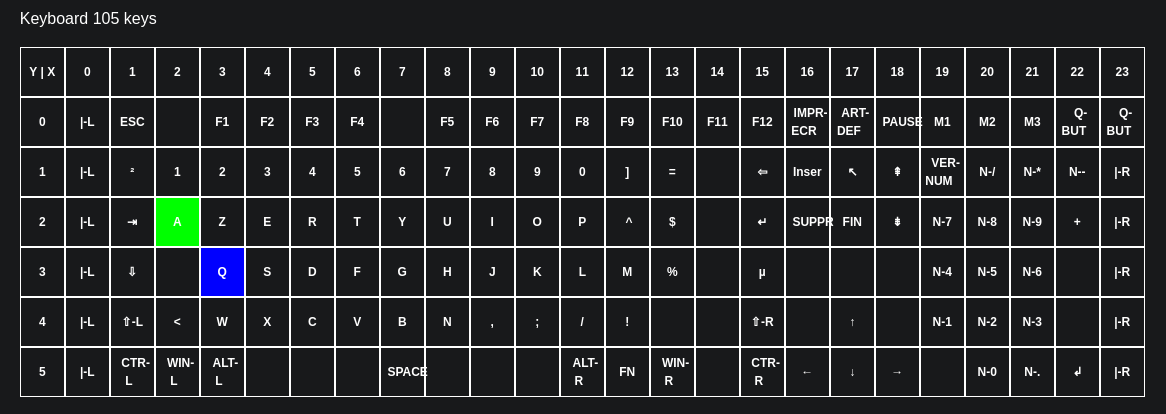
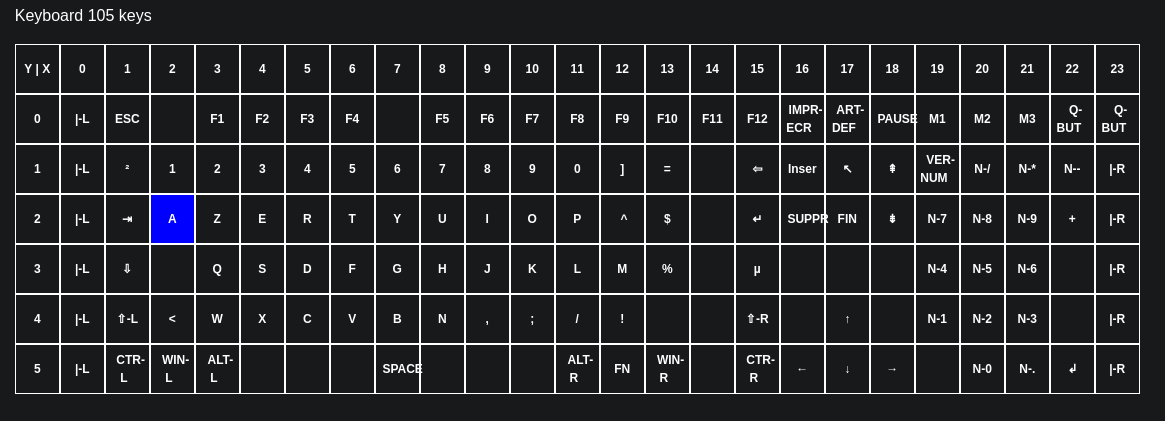
Update the q api doc.

Changed region(s): [[0.0, 0.087, 0.9888, 0.9565], [0.0, 0.0, 0.1545, 0.058]]

diff --git a/_site/q-api-doc/index.html b/_site/q-api-doc/index.html
@@ -16,7 +16,7 @@
   <link href="https://fonts.googleapis.com/icon?family=Material+Icons+Extended" rel="stylesheet">
   <link href="https://fonts.googleapis.com/css?family=Source+Code+Pro%7CRoboto:500,400italic,300,400" rel="stylesheet">
   
-  <link rel="canonical" href="http://localhost:4000/q-website/q-api-doc/">
+  <link rel="canonical" href="https://metadot.github.io/q-website/q-api-doc/">
   <script src="https://www.gstatic.com/firebasejs/4.11.0/firebase.js"></script>
   <script>
     // Initialize Firebase
@@ -130,7 +130,7 @@
          <a href="https://github.com/metadot/q-website/blob/master/q-api-doc.md" class="btn btn-sm">
             <i class="fa fa-pencil"></i> Edit Source
          </a>
-         <a href="https://github.com/DasKeyboard/q/issues/new?title=Issue from website page Das Keyboard Q REST API Documentation&body=From URL: http://localhost:4000/q-api-doc.md&labels=dev: docs - website" class="btn btn-sm">
+         <a href="https://github.com/DasKeyboard/q/issues/new?title=Issue from website page Das Keyboard Q REST API Documentation&body=From URL: https://metadot.github.io/q-api-doc.md&labels=dev: docs - website" class="btn btn-sm">
             <i class="fa fa-github"></i> File Issue
         </a>
      </div>
@@ -451,13 +451,13 @@ Each JSON object will have the structure:</p>
 </code></pre>
 </div>
 
-<p>Example of simple signal:</p>
+<p>Quick example of sending a signal on the key A using the XY coordinates:</p>
 
 <ul>
   <li>from the Cloud:</li>
 </ul>
 
-<div class="language-sh highlighter-rouge"><pre class="highlight"><code>curl -H <span class="s1">'Content-Type: application/json'</span> -H <span class="s1">'Authorization: Bearer ACCESS_TOKEN'</span> -X POST https://q.daskeyboard.com/api/1.0/signals -d <span class="s1">'{"name": "Apple Stock increase", "pid": "DK5QPID", "zoneId": "KEY_A", "color": "#008000"}'</span>
+<div class="language-sh highlighter-rouge"><pre class="highlight"><code>curl -H <span class="s1">'Content-Type: application/json'</span> -H <span class="s1">'Authorization: Bearer ACCESS_TOKEN'</span> -X POST https://q.daskeyboard.com/api/1.0/signals -d <span class="s1">'{"name": "Apple Stock increase", "pid": "DK5QPID", "zoneId": "3,3", "color": "#008000"}'</span>
 </code></pre>
 </div>
 
@@ -465,9 +465,60 @@ Each JSON object will have the structure:</p>
   <li>from local API:</li>
 </ul>
 
-<div class="language-sh highlighter-rouge"><pre class="highlight"><code>curl -H <span class="s1">'Content-Type: application/json'</span> -X POST http://localhost:<span class="nv">$PORT</span>/api/1.0/signals -d <span class="s1">'{"name": "Apple Stock increase", "pid": "DK5QPID", "zoneId": "KEY_A", "color": "#008000"}'</span>
+<div class="language-sh highlighter-rouge"><pre class="highlight"><code>curl -H <span class="s1">'Content-Type: application/json'</span> -X POST  http://localhost:<span class="nv">$PORT</span>/api/1.0/signals -d <span class="s1">'{"name": "Apple Stock increase", "pid": "DK5QPID", "zoneId": "3,3", "color": "#008000"}'</span>
 </code></pre>
 </div>
+
+<h3 id="understanding-zoneid">Understanding zoneId</h3>
+
+<p>The zoneId is the id of the zone to light up.
+There are three coordinates systems available:</p>
+
+<ul>
+  <li>
+    <p>Coordinate system XY</p>
+  </li>
+  <li>
+    <p>Coordinate system  zone code: KEY_{name-of-the-key}</p>
+  </li>
+  <li>
+    <p>Coordinate system  linear</p>
+  </li>
+</ul>
+
+<p>It is recommanded to use the coordinate system XY because it is compatible with every layouts.</p>
+
+<p>For example, to send a signal on the key A (US_layout):</p>
+
+<ul>
+  <li>
+    <p>3,3</p>
+  </li>
+  <li>
+    <p>KEY_A</p>
+  </li>
+  <li>
+    <p>99</p>
+  </li>
+</ul>
+
+<p><img src="/q-website/images/104A.png" alt="104A.png" /></p>
+
+<p>To send a signal on the key A (105 keys layout):</p>
+
+<ul>
+  <li>
+    <p>2,2</p>
+  </li>
+  <li>
+    <p>KEY_A</p>
+  </li>
+  <li>
+    <p>74</p>
+  </li>
+</ul>
+
+<p><img src="/q-website/images/105A.png" alt="105A.png" /></p>
 
 <p>Example of more detailed signal</p>
 
@@ -475,7 +526,7 @@ Each JSON object will have the structure:</p>
   <li>From the Cloud:</li>
 </ul>
 
-<div class="language-sh highlighter-rouge"><pre class="highlight"><code>curl -H <span class="s1">'Content-Type: application/json'</span> -H <span class="s1">'Authorization: Bearer ACCESS_TOKEN'</span> -X POST https://q.daskeyboard.com/api/1.0/signals -d <span class="s1">'{"name": "Apple Stock increase", "pid": "DK5QPID", "zoneId": "KEY_A", "message": "It worked", "effect": "BLINK", "color": "#008000", "action": "open:chrome", "shouldNotify": true, "isRead": true, "isArchived": true, "isMuted": true}'</span>
+<div class="language-sh highlighter-rouge"><pre class="highlight"><code>curl -H <span class="s1">'Content-Type: application/json'</span> -H <span class="s1">'Authorization: Bearer ACCESS_TOKEN'</span> -X POST https://q.daskeyboard.com/api/1.0/signals -d <span class="s1">'{"name": "Apple Stock increase", "pid": "DK5QPID", "zoneId": "3,3", "message": "It worked", "effect": "BLINK", "color": "#008000", "action": "open:chrome", "shouldNotify": true, "isRead": true, "isArchived": true, "isMuted": true}'</span>
 </code></pre>
 </div>
 
@@ -483,9 +534,11 @@ Each JSON object will have the structure:</p>
   <li>From local API:</li>
 </ul>
 
-<div class="language-sh highlighter-rouge"><pre class="highlight"><code>curl -H <span class="s1">'Content-Type: application/json'</span> -X POST http://localhost:<span class="nv">$PORT</span>/api/1.0/signals -d <span class="s1">'{"name": "Apple Stock increase", "pid": "DK5QPID", "zoneId": "KEY_A", "message": "It worked", "effect": "BLINK", "color": "#008000", "shouldNotify": true, "isRead": true, "isArchived": true, "isMuted": true}'</span>
+<div class="language-sh highlighter-rouge"><pre class="highlight"><code>curl -H <span class="s1">'Content-Type: application/json'</span> -X POST http://localhost:<span class="nv">$PORT</span>/api/1.0/signals -d <span class="s1">'{"name": "Apple Stock increase", "pid": "DK5QPID", "zoneId": "3,3", "message": "It worked", "effect": "BLINK", "color": "#008000", "shouldNotify": true, "isRead": true, "isArchived": true, "isMuted": true}'</span>
 </code></pre>
 </div>
+
+<p>You can find some examples here: <a href="/q-website/script-examples/">API examples</a></p>
 
 <p>Required fields:</p>
 
@@ -493,7 +546,7 @@ Each JSON object will have the structure:</p>
 
 <p><strong>pid</strong>: string - pid of the device, e.g. “DK5QPID”.</p>
 
-<p><strong>zoneId</strong>: string - id of the zone, e.g. “KEY_A”, “2,3”, “99”.</p>
+<p><strong>zoneId</strong>: string - id of the zone, e.g. “KEY_A”, “x,y”, “99”.  cf Understanding zoneId</p>
 
 <p><strong>color</strong>: string which has to begin by the character ‘#’ and be followed by 3 or 6 hexadecimal digits - color of the Signal, e.g. “#008000”.</p>
 
@@ -514,49 +567,6 @@ Each JSON object will have the structure:</p>
 <p><strong>isMuted</strong>: boolean - indicates if the Signal has been muted (default: false), e.g. true.</p>
 
 <p>The response is a JSON object containing the id of the signal created.</p>
-
-<h3 id="understanding-the-zoneid">Understanding the zoneId</h3>
-
-<p>The zoneId is a parameter of the signal used to know the position of the key on the keyboard which will be light up.
-There are three ways of writing this variable:</p>
-
-<ul>
-  <li>
-    <p>XY coordinates</p>
-  </li>
-  <li>
-    <p>KEY_{name-of-the-key}</p>
-  </li>
-  <li>
-    <p>Linear</p>
-  </li>
-</ul>
-
-<p>For example, in order to send a signal on the key A, according to the layout, the coordinates are different, so the zone ID of the A key can be (see the tables below):</p>
-
-<ul>
-  <li>
-    <p>3,3 for the 104 keys’ layout</p>
-  </li>
-  <li>
-    <p>2,2 for the 105 keys’ layout</p>
-  </li>
-  <li>
-    <p>KEY_A</p>
-  </li>
-  <li>
-    <p>99 for the 104 keys’ layout</p>
-  </li>
-  <li>
-    <p>74 for the 105 keys’ layout</p>
-  </li>
-</ul>
-
-<p><img src="/q-website/images/104A.png" alt="104A.png" /></p>
-
-<p><img src="/q-website/images/105A.png" alt="105A.png" /></p>
-
-<p><img src="/q-website/images/linearA.png" alt="linearA.png" /></p>
 
 <h3 id="getting-the-signals-cloud-only">Getting the signals (Cloud only)</h3>
 

diff --git a/_site/script-examples/colorize-one-line-using-xy-coordinates/index.html b/_site/script-examples/colorize-one-line-using-xy-coordinates/index.html
@@ -16,7 +16,7 @@
   <link href="https://fonts.googleapis.com/icon?family=Material+Icons+Extended" rel="stylesheet">
   <link href="https://fonts.googleapis.com/css?family=Source+Code+Pro%7CRoboto:500,400italic,300,400" rel="stylesheet">
   
-  <link rel="canonical" href="http://localhost:4000/q-website/script-examples/colorize-one-line-using-xy-coordinates/">
+  <link rel="canonical" href="https://metadot.github.io/q-website/script-examples/colorize-one-line-using-xy-coordinates/">
   <script src="https://www.gstatic.com/firebasejs/4.11.0/firebase.js"></script>
   <script>
     // Initialize Firebase
@@ -130,7 +130,7 @@
          <a href="https://github.com/metadot/q-website/blob/master/script-examples/colorize-one-line-using-xy-coordinates.md" class="btn btn-sm">
             <i class="fa fa-pencil"></i> Edit Source
          </a>
-         <a href="https://github.com/DasKeyboard/q/issues/new?title=Issue from website page Colorize one line of the keyboard using the XY coordinates&body=From URL: http://localhost:4000/script-examples/colorize-one-line-using-xy-coordinates.md&labels=dev: docs - website" class="btn btn-sm">
+         <a href="https://github.com/DasKeyboard/q/issues/new?title=Issue from website page Colorize one line of the keyboard using the XY coordinates&body=From URL: https://metadot.github.io/script-examples/colorize-one-line-using-xy-coordinates.md&labels=dev: docs - website" class="btn btn-sm">
             <i class="fa fa-github"></i> File Issue
         </a>
      </div>

diff --git a/_site/script-examples/colorize-keyboard-using-xy-coordinates/index.html b/_site/script-examples/colorize-keyboard-using-xy-coordinates/index.html
@@ -16,7 +16,7 @@
   <link href="https://fonts.googleapis.com/icon?family=Material+Icons+Extended" rel="stylesheet">
   <link href="https://fonts.googleapis.com/css?family=Source+Code+Pro%7CRoboto:500,400italic,300,400" rel="stylesheet">
   
-  <link rel="canonical" href="http://localhost:4000/q-website/script-examples/colorize-keyboard-using-xy-coordinates/">
+  <link rel="canonical" href="https://metadot.github.io/q-website/script-examples/colorize-keyboard-using-xy-coordinates/">
   <script src="https://www.gstatic.com/firebasejs/4.11.0/firebase.js"></script>
   <script>
     // Initialize Firebase
@@ -130,7 +130,7 @@
          <a href="https://github.com/metadot/q-website/blob/master/script-examples/colorize-keyboard-using-xy-coordinates.md" class="btn btn-sm">
             <i class="fa fa-pencil"></i> Edit Source
          </a>
-         <a href="https://github.com/DasKeyboard/q/issues/new?title=Issue from website page Colorize the keyboard using the XY coordinates&body=From URL: http://localhost:4000/script-examples/colorize-keyboard-using-xy-coordinates.md&labels=dev: docs - website" class="btn btn-sm">
+         <a href="https://github.com/DasKeyboard/q/issues/new?title=Issue from website page Colorize the keyboard using the XY coordinates&body=From URL: https://metadot.github.io/script-examples/colorize-keyboard-using-xy-coordinates.md&labels=dev: docs - website" class="btn btn-sm">
             <i class="fa fa-github"></i> File Issue
         </a>
      </div>

diff --git a/_site/script-examples/search-keyword-in-website-create-signal/index.html b/_site/script-examples/search-keyword-in-website-create-signal/index.html
@@ -16,7 +16,7 @@
   <link href="https://fonts.googleapis.com/icon?family=Material+Icons+Extended" rel="stylesheet">
   <link href="https://fonts.googleapis.com/css?family=Source+Code+Pro%7CRoboto:500,400italic,300,400" rel="stylesheet">
   
-  <link rel="canonical" href="http://localhost:4000/q-website/script-examples/search-keyword-in-website-create-signal/">
+  <link rel="canonical" href="https://metadot.github.io/q-website/script-examples/search-keyword-in-website-create-signal/">
   <script src="https://www.gstatic.com/firebasejs/4.11.0/firebase.js"></script>
   <script>
     // Initialize Firebase
@@ -130,7 +130,7 @@
          <a href="https://github.com/metadot/q-website/blob/master/script-examples/search-keyword-in-website-create-signal.md" class="btn btn-sm">
             <i class="fa fa-pencil"></i> Edit Source
          </a>
-         <a href="https://github.com/DasKeyboard/q/issues/new?title=Issue from website page Colorize all LEDs of the Q keyboard&body=From URL: http://localhost:4000/script-examples/search-keyword-in-website-create-signal.md&labels=dev: docs - website" class="btn btn-sm">
+         <a href="https://github.com/DasKeyboard/q/issues/new?title=Issue from website page Colorize all LEDs of the Q keyboard&body=From URL: https://metadot.github.io/script-examples/search-keyword-in-website-create-signal.md&labels=dev: docs - website" class="btn btn-sm">
             <i class="fa fa-github"></i> File Issue
         </a>
      </div>

diff --git a/_site/script-examples/send-signal-using-xy-coordinates/index.html b/_site/script-examples/send-signal-using-xy-coordinates/index.html
@@ -16,7 +16,7 @@
   <link href="https://fonts.googleapis.com/icon?family=Material+Icons+Extended" rel="stylesheet">
   <link href="https://fonts.googleapis.com/css?family=Source+Code+Pro%7CRoboto:500,400italic,300,400" rel="stylesheet">
   
-  <link rel="canonical" href="http://localhost:4000/q-website/script-examples/send-signal-using-xy-coordinates/">
+  <link rel="canonical" href="https://metadot.github.io/q-website/script-examples/send-signal-using-xy-coordinates/">
   <script src="https://www.gstatic.com/firebasejs/4.11.0/firebase.js"></script>
   <script>
     // Initialize Firebase
@@ -130,7 +130,7 @@
          <a href="https://github.com/metadot/q-website/blob/master/script-examples/send-signal-using-xy-coordinates.md" class="btn btn-sm">
             <i class="fa fa-pencil"></i> Edit Source
          </a>
-         <a href="https://github.com/DasKeyboard/q/issues/new?title=Issue from website page Send one signal using the XY coordinates&body=From URL: http://localhost:4000/script-examples/send-signal-using-xy-coordinates.md&labels=dev: docs - website" class="btn btn-sm">
+         <a href="https://github.com/DasKeyboard/q/issues/new?title=Issue from website page Send one signal using the XY coordinates&body=From URL: https://metadot.github.io/script-examples/send-signal-using-xy-coordinates.md&labels=dev: docs - website" class="btn btn-sm">
             <i class="fa fa-github"></i> File Issue
         </a>
      </div>

diff --git a/_site/script-examples/github-api/index.html b/_site/script-examples/github-api/index.html
@@ -16,7 +16,7 @@
   <link href="https://fonts.googleapis.com/icon?family=Material+Icons+Extended" rel="stylesheet">
   <link href="https://fonts.googleapis.com/css?family=Source+Code+Pro%7CRoboto:500,400italic,300,400" rel="stylesheet">
   
-  <link rel="canonical" href="http://localhost:4000/q-website/script-examples/github-api/">
+  <link rel="canonical" href="https://metadot.github.io/q-website/script-examples/github-api/">
   <script src="https://www.gstatic.com/firebasejs/4.11.0/firebase.js"></script>
   <script>
     // Initialize Firebase
@@ -130,7 +130,7 @@
          <a href="https://github.com/metadot/q-website/blob/master/script-examples/github-api.md" class="btn btn-sm">
             <i class="fa fa-pencil"></i> Edit Source
          </a>
-         <a href="https://github.com/DasKeyboard/q/issues/new?title=Issue from website page Send a signal when we receive a notifications from Github&body=From URL: http://localhost:4000/script-examples/github-api.md&labels=dev: docs - website" class="btn btn-sm">
+         <a href="https://github.com/DasKeyboard/q/issues/new?title=Issue from website page Send a signal when we receive a notifications from Github&body=From URL: https://metadot.github.io/script-examples/github-api.md&labels=dev: docs - website" class="btn btn-sm">
             <i class="fa fa-github"></i> File Issue
         </a>
      </div>

diff --git a/_site/script-examples/send-signal-to-cloud/index.html b/_site/script-examples/send-signal-to-cloud/index.html
@@ -16,7 +16,7 @@
   <link href="https://fonts.googleapis.com/icon?family=Material+Icons+Extended" rel="stylesheet">
   <link href="https://fonts.googleapis.com/css?family=Source+Code+Pro%7CRoboto:500,400italic,300,400" rel="stylesheet">
   
-  <link rel="canonical" href="http://localhost:4000/q-website/script-examples/send-signal-to-cloud/">
+  <link rel="canonical" href="https://metadot.github.io/q-website/script-examples/send-signal-to-cloud/">
   <script src="https://www.gstatic.com/firebasejs/4.11.0/firebase.js"></script>
   <script>
     // Initialize Firebase
@@ -130,7 +130,7 @@
          <a href="https://github.com/metadot/q-website/blob/master/script-examples/send-signal-to-cloud.md" class="btn btn-sm">
             <i class="fa fa-pencil"></i> Edit Source
          </a>
-         <a href="https://github.com/DasKeyboard/q/issues/new?title=Issue from website page Send one signal to the Cloud&body=From URL: http://localhost:4000/script-examples/send-signal-to-cloud.md&labels=dev: docs - website" class="btn btn-sm">
+         <a href="https://github.com/DasKeyboard/q/issues/new?title=Issue from website page Send one signal to the Cloud&body=From URL: https://metadot.github.io/script-examples/send-signal-to-cloud.md&labels=dev: docs - website" class="btn btn-sm">
             <i class="fa fa-github"></i> File Issue
         </a>
      </div>

diff --git a/_site/script-examples/colorize-keyboard/index.html b/_site/script-examples/colorize-keyboard/index.html
@@ -16,7 +16,7 @@
   <link href="https://fonts.googleapis.com/icon?family=Material+Icons+Extended" rel="stylesheet">
   <link href="https://fonts.googleapis.com/css?family=Source+Code+Pro%7CRoboto:500,400italic,300,400" rel="stylesheet">
   
-  <link rel="canonical" href="http://localhost:4000/q-website/script-examples/colorize-keyboard/">
+  <link rel="canonical" href="https://metadot.github.io/q-website/script-examples/colorize-keyboard/">
   <script src="https://www.gstatic.com/firebasejs/4.11.0/firebase.js"></script>
   <script>
     // Initialize Firebase
@@ -130,7 +130,7 @@
          <a href="https://github.com/metadot/q-website/blob/master/script-examples/colorize-keyboard.md" class="btn btn-sm">
             <i class="fa fa-pencil"></i> Edit Source
          </a>
-         <a href="https://github.com/DasKeyboard/q/issues/new?title=Issue from website page Colorize all LEDs of the Q keyboard&body=From URL: http://localhost:4000/script-examples/colorize-keyboard.md&labels=dev: docs - website" class="btn btn-sm">
+         <a href="https://github.com/DasKeyboard/q/issues/new?title=Issue from website page Colorize all LEDs of the Q keyboard&body=From URL: https://metadot.github.io/script-examples/colorize-keyboard.md&labels=dev: docs - website" class="btn btn-sm">
             <i class="fa fa-github"></i> File Issue
         </a>
      </div>

diff --git a/_site/script-examples/send-signal-local/index.html b/_site/script-examples/send-signal-local/index.html
@@ -16,7 +16,7 @@
   <link href="https://fonts.googleapis.com/icon?family=Material+Icons+Extended" rel="stylesheet">
   <link href="https://fonts.googleapis.com/css?family=Source+Code+Pro%7CRoboto:500,400italic,300,400" rel="stylesheet">
   
-  <link rel="canonical" href="http://localhost:4000/q-website/script-examples/send-signal-local/">
+  <link rel="canonical" href="https://metadot.github.io/q-website/script-examples/send-signal-local/">
   <script src="https://www.gstatic.com/firebasejs/4.11.0/firebase.js"></script>
   <script>
     // Initialize Firebase
@@ -130,7 +130,7 @@
          <a href="https://github.com/metadot/q-website/blob/master/script-examples/send-signal-local.md" class="btn btn-sm">
             <i class="fa fa-pencil"></i> Edit Source
          </a>
-         <a href="https://github.com/DasKeyboard/q/issues/new?title=Issue from website page Send one signal to the local API&body=From URL: http://localhost:4000/script-examples/send-signal-local.md&labels=dev: docs - website" class="btn btn-sm">
+         <a href="https://github.com/DasKeyboard/q/issues/new?title=Issue from website page Send one signal to the local API&body=From URL: https://metadot.github.io/script-examples/send-signal-local.md&labels=dev: docs - website" class="btn btn-sm">
             <i class="fa fa-github"></i> File Issue
         </a>
      </div>

diff --git a/_site/script-examples/cpu-percentage/index.html b/_site/script-examples/cpu-percentage/index.html
@@ -16,7 +16,7 @@
   <link href="https://fonts.googleapis.com/icon?family=Material+Icons+Extended" rel="stylesheet">
   <link href="https://fonts.googleapis.com/css?family=Source+Code+Pro%7CRoboto:500,400italic,300,400" rel="stylesheet">
   
-  <link rel="canonical" href="http://localhost:4000/q-website/script-examples/cpu-percentage/">
+  <link rel="canonical" href="https://metadot.github.io/q-website/script-examples/cpu-percentage/">
   <script src="https://www.gstatic.com/firebasejs/4.11.0/firebase.js"></script>
   <script>
     // Initialize Firebase
@@ -130,7 +130,7 @@
          <a href="https://github.com/metadot/q-website/blob/master/script-examples/cpu-percentage.md" class="btn btn-sm">
             <i class="fa fa-pencil"></i> Edit Source
          </a>
-         <a href="https://github.com/DasKeyboard/q/issues/new?title=Issue from website page Display the CPU percentage&body=From URL: http://localhost:4000/script-examples/cpu-percentage.md&labels=dev: docs - website" class="btn btn-sm">
+         <a href="https://github.com/DasKeyboard/q/issues/new?title=Issue from website page Display the CPU percentage&body=From URL: https://metadot.github.io/script-examples/cpu-percentage.md&labels=dev: docs - website" class="btn btn-sm">
             <i class="fa fa-github"></i> File Issue
         </a>
      </div>

diff --git a/_site/get-started/welcome-video/index.html b/_site/get-started/welcome-video/index.html
@@ -16,7 +16,7 @@
   <link href="https://fonts.googleapis.com/icon?family=Material+Icons+Extended" rel="stylesheet">
   <link href="https://fonts.googleapis.com/css?family=Source+Code+Pro%7CRoboto:500,400italic,300,400" rel="stylesheet">
   
-  <link rel="canonical" href="http://localhost:4000/q-website/get-started/welcome-video/">
+  <link rel="canonical" href="https://metadot.github.io/q-website/get-started/welcome-video/">
   <script src="https://www.gstatic.com/firebasejs/4.11.0/firebase.js"></script>
   <script>
     // Initialize Firebase
@@ -130,7 +130,7 @@
          <a href="https://github.com/metadot/q-website/blob/master/get-started/welcome-video.md" class="btn btn-sm">
             <i class="fa fa-pencil"></i> Edit Source
          </a>
-         <a href="https://github.com/DasKeyboard/q/issues/new?title=Issue from website page Get Started: Watch the welcome video&body=From URL: http://localhost:4000/get-started/welcome-video.md&labels=dev: docs - website" class="btn btn-sm">
+         <a href="https://github.com/DasKeyboard/q/issues/new?title=Issue from website page Get Started: Watch the welcome video&body=From URL: https://metadot.github.io/get-started/welcome-video.md&labels=dev: docs - website" class="btn btn-sm">
             <i class="fa fa-github"></i> File Issue
         </a>
      </div>

diff --git a/_site/get-started/zapier-tutorial/index.html b/_site/get-started/zapier-tutorial/index.html
@@ -16,7 +16,7 @@
   <link href="https://fonts.googleapis.com/icon?family=Material+Icons+Extended" rel="stylesheet">
   <link href="https://fonts.googleapis.com/css?family=Source+Code+Pro%7CRoboto:500,400italic,300,400" rel="stylesheet">
   
-  <link rel="canonical" href="http://localhost:4000/q-website/get-started/zapier-tutorial/">
+  <link rel="canonical" href="https://metadot.github.io/q-website/get-started/zapier-tutorial/">
   <script src="https://www.gstatic.com/firebasejs/4.11.0/firebase.js"></script>
   <script>
     // Initialize Firebase
@@ -130,7 +130,7 @@
          <a href="https://github.com/metadot/q-website/blob/master/get-started/zapier-tutorial.md" class="btn btn-sm">
             <i class="fa fa-pencil"></i> Edit Source
          </a>
-         <a href="https://github.com/DasKeyboard/q/issues/new?title=Issue from website page Get Started: Zapier tutorial&body=From URL: http://localhost:4000/get-started/zapier-tutorial.md&labels=dev: docs - website" class="btn btn-sm">
+         <a href="https://github.com/DasKeyboard/q/issues/new?title=Issue from website page Get Started: Zapier tutorial&body=From URL: https://metadot.github.io/get-started/zapier-tutorial.md&labels=dev: docs - website" class="btn btn-sm">
             <i class="fa fa-github"></i> File Issue
         </a>
      </div>
